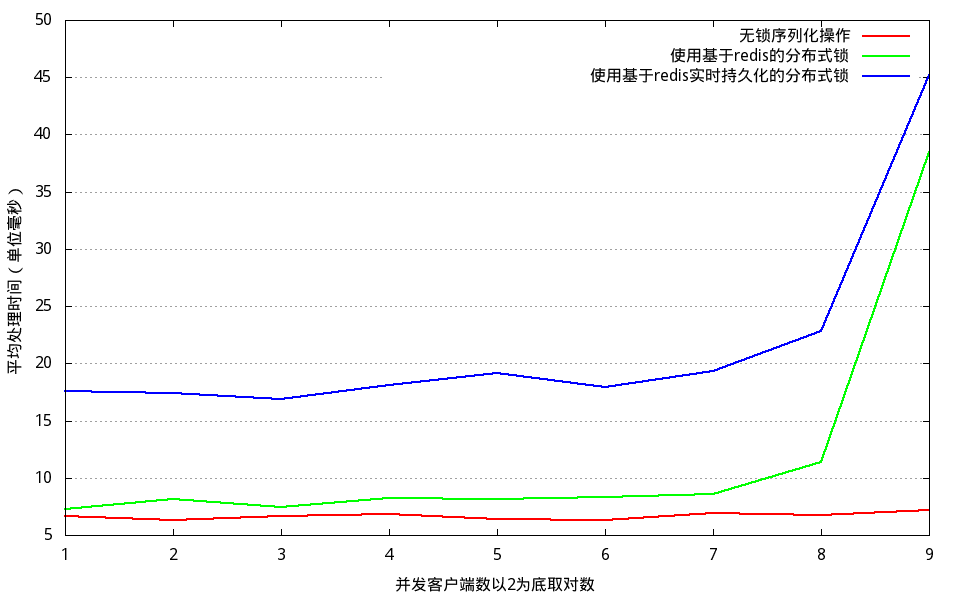
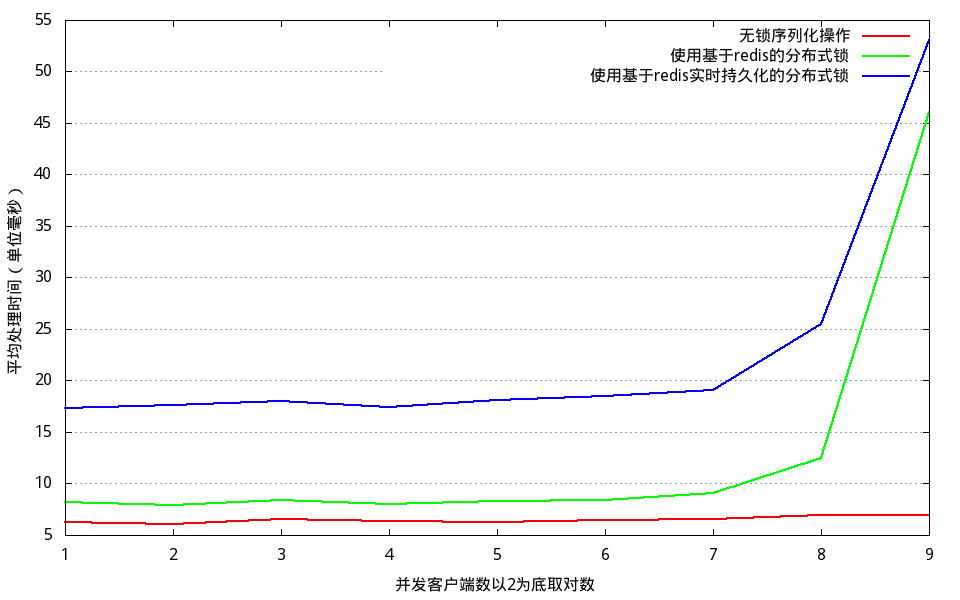
Add benchmark sample result with different redis master count.

diff --git a/dist_lock_test/README.md b/dist_lock_test/README.md
@@ -26,3 +26,6 @@ Run etcd, redis master on a same machine with
 
 Benchmark comparison when changing concurrent clients from 2^0 to 2^9
 ![benchmark changing client concurrent](./docs/images/rt_under_different_concurrent.png)
+
+Benchmark using distributed lock with different number of redis master
+![benchmark with different redis master number](./docs/images/rt_under_different_redis_master.png)
